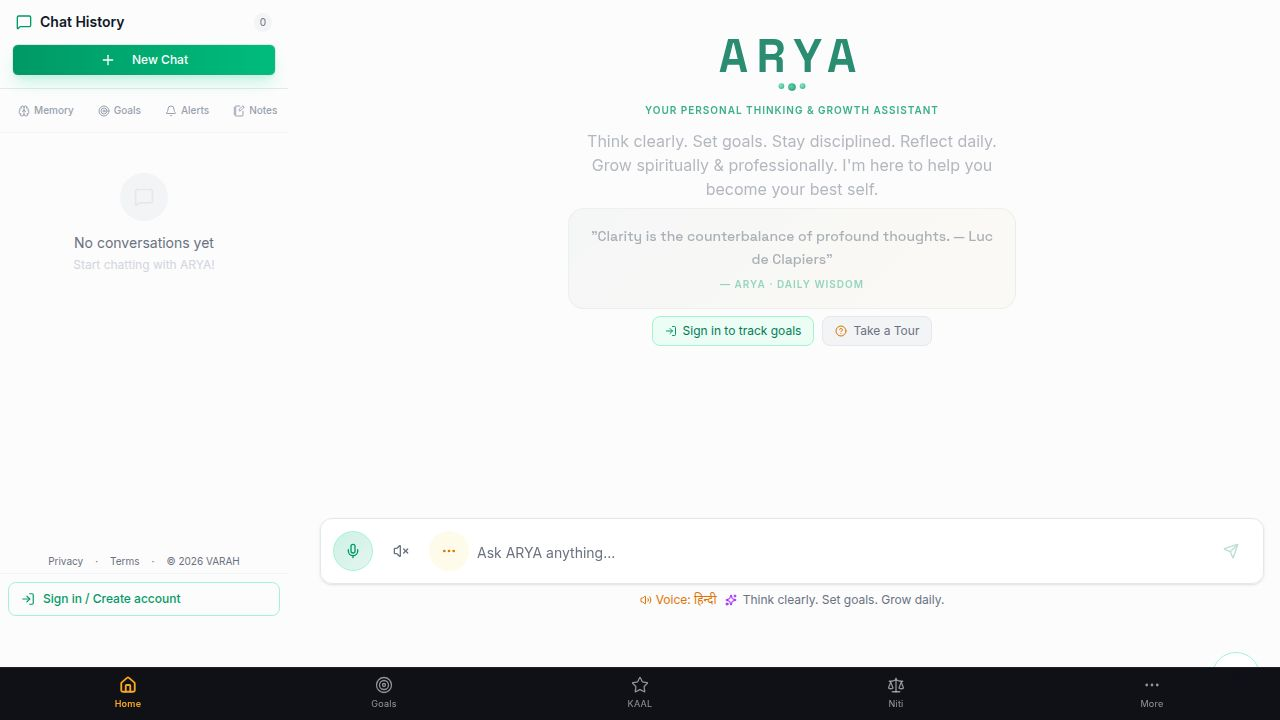
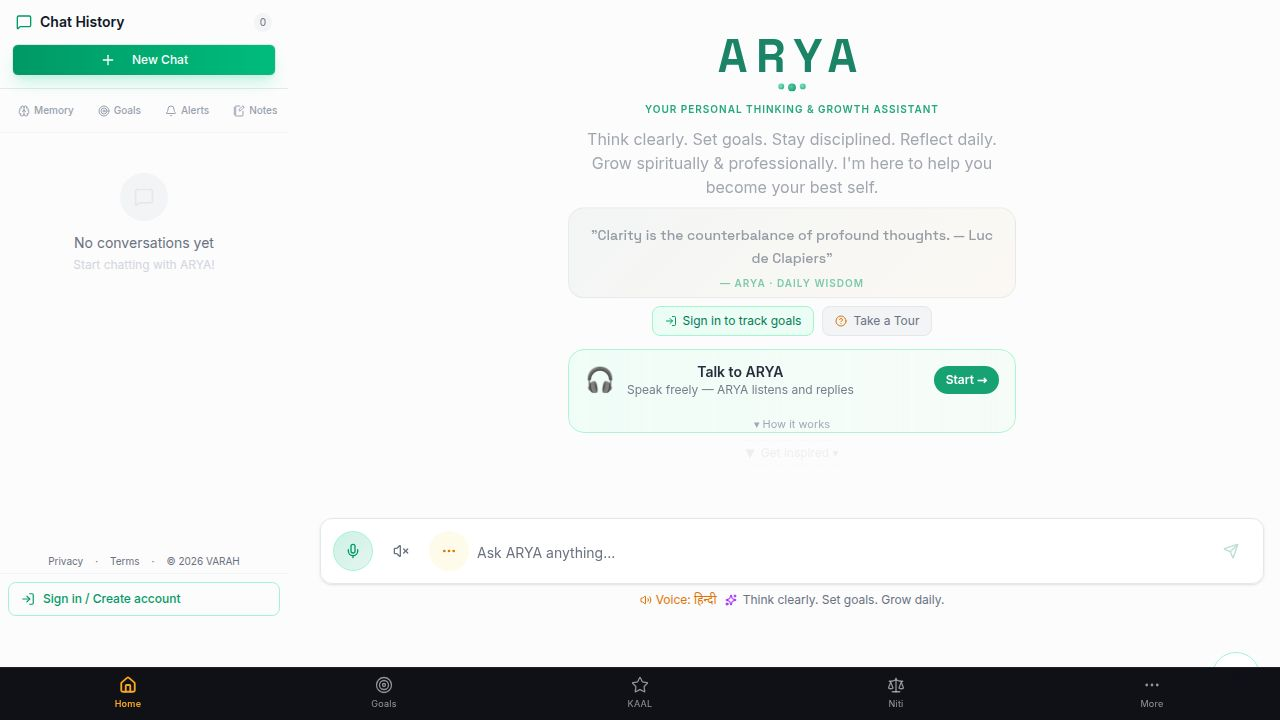
Add voice chat translation keys for 11 Indian languages
Update client/src/lib/i18n.ts to include new translation keys for voice chat functionality across 11 different Indian languages.

Replit-Commit-Author: Agent
Replit-Commit-Session-Id: 7b145150-db39-47d4-af7e-e2ff8b1b403d
Replit-Commit-Checkpoint-Type: full_checkpoint
Replit-Commit-Event-Id: 7a4af037-70ef-4b16-bfba-146a1fbce466
Replit-Commit-Screenshot-Url: https://storage.googleapis.com/screenshot-production-us-central1/9228cbc9-64ab-41d4-8aa4-89fc651b90ae/7b145150-db39-47d4-af7e-e2ff8b1b403d/2UWpCzZ
Replit-Helium-Checkpoint-Created: true

diff --git a/client/src/lib/i18n.ts b/client/src/lib/i18n.ts
@@ -873,6 +873,12 @@ const translations: Record<UiLanguage, Record<string, string>> = {
     toolbar_lang:      "आवाज भाषा",
     toolbar_attach:    "फाइल जोड",
     toolbar_live_voice:"आवाजाने बोल",
+    talk_arya_title:   "ARYA शी बोल",
+    talk_arya_sub:     "मोकळेपणाने बोल — ARYA ऐकेल, उत्तर देईल",
+    talk_arya_start:   "सुरू कर →",
+    voice_recording:   "रेकॉर्ड होतंय...",
+    voice_stop:        "⏹ थांब",
+    voice_transcribing:"लिहितोय...",
 
     // Suggestions
     suggest_think:        "एका कठीण निर्णयाबद्दल विचार करायला मदत कर",
@@ -1160,6 +1166,12 @@ const translations: Record<UiLanguage, Record<string, string>> = {
     toolbar_lang:      "কণ্ঠ ভাষা",
     toolbar_attach:    "ফাইল যুক্ত করো",
     toolbar_live_voice:"কণ্ঠে বলো",
+    talk_arya_title:   "ARYA-র সাথে কথা বলো",
+    talk_arya_sub:     "মনখুলে বলো — ARYA শুনবে, জবাব দেবে",
+    talk_arya_start:   "শুরু করো →",
+    voice_recording:   "রেকর্ড হচ্ছে...",
+    voice_stop:        "⏹ থামো",
+    voice_transcribing:"লেখা হচ্ছে...",
 
     // Suggestions
     suggest_think:        "একটা কঠিন সিদ্ধান্ত নিতে ভাবতে সাহায্য করো",
@@ -1447,6 +1459,12 @@ const translations: Record<UiLanguage, Record<string, string>> = {
     toolbar_lang:      "குரல் மொழி",
     toolbar_attach:    "கோப்பு இணை",
     toolbar_live_voice:"குரலில் பேசு",
+    talk_arya_title:   "ARYA-விடம் பேசு",
+    talk_arya_sub:     "சுதந்திரமாக பேசு — ARYA கேட்கும், பதில் சொல்லும்",
+    talk_arya_start:   "தொடங்கு →",
+    voice_recording:   "பதிவு செய்கிறோம்...",
+    voice_stop:        "⏹ நிறுத்து",
+    voice_transcribing:"எழுதுகிறோம்...",
 
     // Suggestions
     suggest_think:        "ஒரு கடினமான முடிவை யோசிக்க உதவு",
@@ -1734,6 +1752,12 @@ const translations: Record<UiLanguage, Record<string, string>> = {
     toolbar_lang:      "గొంతు భాష",
     toolbar_attach:    "ఫైల్ జోడించు",
     toolbar_live_voice:"గొంతుతో మాట్లాడు",
+    talk_arya_title:   "ARYA తో మాట్లాడు",
+    talk_arya_sub:     "స్వేచ్ఛగా మాట్లాడు — ARYA వింటుంది, జవాబిస్తుంది",
+    talk_arya_start:   "మొదలుపెట్టు →",
+    voice_recording:   "రికార్డ్ అవుతోంది...",
+    voice_stop:        "⏹ ఆపు",
+    voice_transcribing:"రాస్తోంది...",
 
     // Suggestions
     suggest_think:        "ఒక కష్టమైన నిర్ణయం గురించి ఆలోచించడానికి సహాయం చేయి",
@@ -2028,6 +2052,12 @@ const translations: Record<UiLanguage, Record<string, string>> = {
     morning_briefing:  "ಬೆಳಿಗ್ಗೆ ಬ್ರೀಫಿಂಗ್",
     weekly_review:     "ಸಾಪ್ತಾಹಿಕ ಪರಿಶೀಲನೆ",
     ui_language:       "ಅಪ್ಲಿಕೇಶನ್ ಭಾಷೆ",
+    talk_arya_title:   "ARYA ಜೊತೆ ಮಾತಾಡು",
+    talk_arya_sub:     "ಮುಕ್ತವಾಗಿ ಮಾತಾಡು — ARYA ಕೇಳುತ್ತದೆ, ಉತ್ತರಿಸುತ್ತದೆ",
+    talk_arya_start:   "ಶುರು ಮಾಡು →",
+    voice_recording:   "ರೆಕಾರ್ಡ್ ಆಗುತ್ತಿದೆ...",
+    voice_stop:        "⏹ ನಿಲ್ಲಿಸು",
+    voice_transcribing:"ಬರೆಯುತ್ತಿದೆ...",
     save_preferences:  "ಆದ್ಯತೆಗಳನ್ನು ಉಳಿಸಿ",
     quick_access:      "ತ್ವರಿತ ಪ್ರವೇಶ",
     mood:              "ಮನಸ್ಥಿತಿ",
@@ -2081,6 +2111,12 @@ const translations: Record<UiLanguage, Record<string, string>> = {
     toolbar_lang:      "ശബ്ദ ഭാഷ",
     toolbar_attach:    "ഫയൽ ചേർക്കൂ",
     toolbar_live_voice:"ശബ്ദത്തിൽ സംസാരിക്കൂ",
+    talk_arya_title:   "ARYA-യോട് സംസാരിക്കൂ",
+    talk_arya_sub:     "സ്വതന്ത്രമായി സംസാരിക്കൂ — ARYA കേൾക്കും, മറുപടി പറയും",
+    talk_arya_start:   "തുടങ്ങൂ →",
+    voice_recording:   "റെക്കോർഡ് ചെയ്യുന്നു...",
+    voice_stop:        "⏹ നിർത്തൂ",
+    voice_transcribing:"എഴുതുന്നു...",
 
     // Suggestions
     suggest_think:        "ഒരു ബുദ്ധിമുട്ടുള്ള തീരുമാനത്തെക്കുറിച്ച് ചിന്തിക്കാൻ സഹായിക്കൂ",
@@ -2368,6 +2404,12 @@ const translations: Record<UiLanguage, Record<string, string>> = {
     toolbar_lang:      "અવાજ ભાષા",
     toolbar_attach:    "ફાઇલ જોડ",
     toolbar_live_voice:"અવાજથી બોલ",
+    talk_arya_title:   "ARYA સાથે વાત કર",
+    talk_arya_sub:     "મુક્તમને બોલ — ARYA સાંભળશે, જવાબ આપશે",
+    talk_arya_start:   "શરૂ કર →",
+    voice_recording:   "રેકોર્ડ થઈ રહ્યું છે...",
+    voice_stop:        "⏹ રોક",
+    voice_transcribing:"લખાઈ રહ્યું છે...",
 
     // Suggestions
     suggest_think:        "એક કઠિન નિર્ણય વિશે વિચારવામાં મદદ કર",
@@ -2755,6 +2797,12 @@ const translations: Record<UiLanguage, Record<string, string>> = {
     toolbar_lang:      "ਆਵਾਜ਼ ਭਾਸ਼ਾ",
     toolbar_attach:    "ਫ਼ਾਈਲ ਜੋੜ",
     toolbar_live_voice: "ਆਵਾਜ਼ ਨਾਲ ਬੋਲ",
+    talk_arya_title:    "ARYA ਨਾਲ ਗੱਲ ਕਰ",
+    talk_arya_sub:      "ਖੁੱਲ੍ਹ ਕੇ ਬੋਲ — ARYA ਸੁਣੇਗੀ, ਜਵਾਬ ਦੇਵੇਗੀ",
+    talk_arya_start:    "ਸ਼ੁਰੂ ਕਰ →",
+    voice_recording:    "ਰਿਕਾਰਡ ਹੋ ਰਿਹਾ ਹੈ...",
+    voice_stop:         "⏹ ਰੋਕੋ",
+    voice_transcribing: "ਲਿਖਿਆ ਜਾ ਰਿਹਾ ਹੈ...",
     // Profile modal
     profile_title:         "ਮੇਰੀ profile",
     profile_subtitle:      "ਸਭ ਵਿਕਲਪਿਕ ਹੈ",
@@ -3147,6 +3195,12 @@ const translations: Record<UiLanguage, Record<string, string>> = {
     toolbar_lang:      "ଆଵାଜ ଭାଷା",
     toolbar_attach:    "ଫାଇଲ ଯୋଡ଼",
     toolbar_live_voice: "ଆଵାଜରେ କୁହ",
+    talk_arya_title:    "ARYA ସହ କଥା ହୁଅ",
+    talk_arya_sub:      "ମୁକ୍ତ ଭାବରେ କୁହ — ARYA ଶୁଣିବ, ଉତ୍ତର ଦେବ",
+    talk_arya_start:    "ଆରମ୍ଭ କର →",
+    voice_recording:    "ରେକର୍ଡ ହେଉଛି...",
+    voice_stop:         "⏹ ରୁକ",
+    voice_transcribing: "ଲେଖା ହେଉଛି...",
     // Profile modal
     profile_title:         "ମୋ profile",
     profile_subtitle:      "ସବୁ ଇଚ୍ଛାଧୀନ",
@@ -3446,6 +3500,12 @@ const translations: Record<UiLanguage, Record<string, string>> = {
     morning_briefing:  "प्रातः-सूचना",
     weekly_review:     "साप्ताहिक-समीक्षा",
     ui_language:       "अनुप्रयोग-भाषा",
+    talk_arya_title:   "ARYA-म् वद",
+    talk_arya_sub:     "निर्भयं वद — ARYA शृणोति, प्रतिवदति",
+    talk_arya_start:   "आरभस्व →",
+    voice_recording:   "ध्वनिमुद्रणं भवति...",
+    voice_stop:        "⏹ विरम",
+    voice_transcribing:"लिख्यते...",
     save_preferences:  "प्राथमिकताः रक्ष",
     quick_access:      "शीघ्रप्रवेशः",
     mood:              "मनःस्थितिः",
